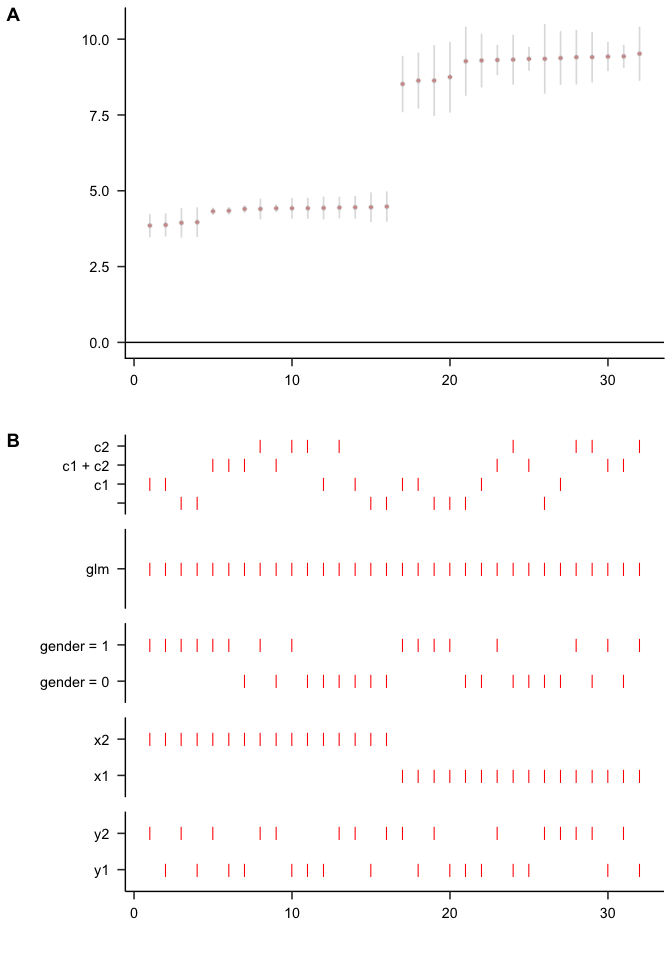
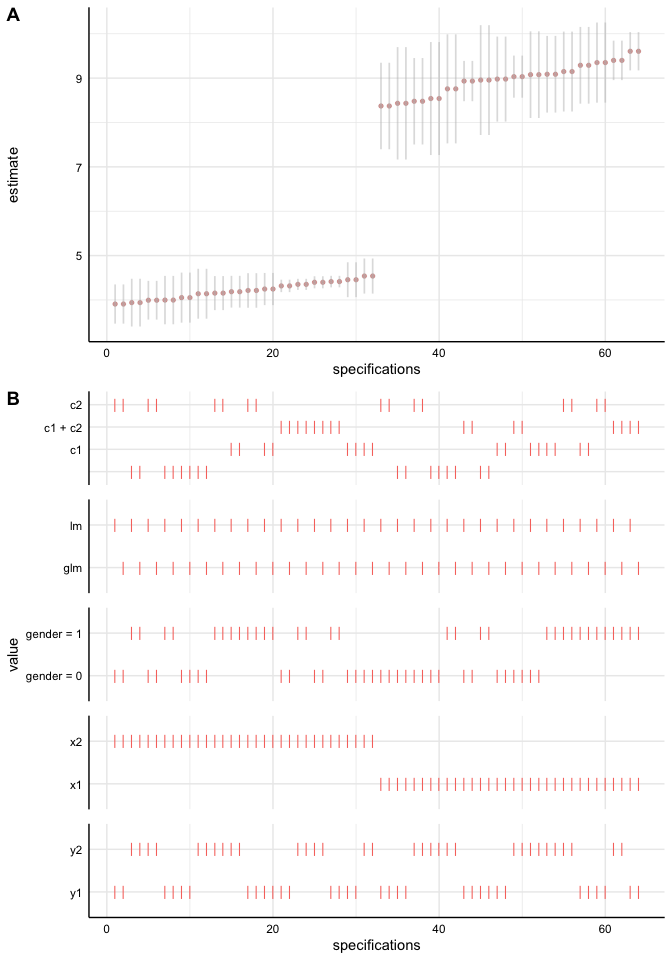
Updated example in README.md to use the simulated data within the package.

diff --git a/README.md b/README.md
@@ -28,32 +28,20 @@ devtools::install_github("masurp/specr")
 ## Example
 
 This is a basic example of how to use the major functions in this
-package. In a first step, we simulate some data that we can run a
-specification curve analysis with.
+package. In a first step, check the data (here a simulated data set).
 
 ``` r
 # Load library
 library(specr)
-
-# Simulating some data
-x1 <- rnorm(500, 2.5, 1)
-x2 <- 2*x1 + rnorm(500, 0, 1)
-c1 <- rnorm(500, 2.5, 2)
-c2 <- rnorm(500, 2.5, 2)
-gender <- rep(c(0,1), 250)
-y1 <- 2*x1 + 2.5*x2 + 2*c1 + 2*c2 + 0.5*(x1*c1) + 0.25*(x2*c2) + 2*gender + rnorm(500, 0, 1)
-y2 <- 2*x1 + 2.5*x2 + 2*c1 + 2*c2 + 0.5*(x1*c1) + 0.25*(x2*c2) + 2*gender + rnorm(500, 0, 1)
-d <- data.frame(x1, x2, c1, c2, gender, y1, y2)
-
-# Check data
+d <- example_data
 head(d)
-#>         x1       x2       c1         c2 gender       y1       y2
-#> 1 2.651347 5.551732 4.586782  0.8926008      0 37.49179 37.49800
-#> 2 3.682208 7.662658 1.658685 -1.9727400      1 27.29487 25.92298
-#> 3 3.321175 6.455129 2.664986 -1.7209318      0 26.25652 27.62138
-#> 4 4.891453 8.896054 1.475284 -0.5069221      1 37.18363 36.54832
-#> 5 3.144061 7.017656 3.734942  3.3965117      0 48.41670 49.17358
-#> 6 2.903576 4.735994 2.969299  4.9735140      1 43.02540 44.99472
+#>          x1        x2          c1       c2 gender       y1       y2
+#> 1 3.5835162 6.7585730 -0.08479593 1.046597      0 26.73193 28.45278
+#> 2 1.5918187 3.9296317  6.37908937 2.974318      1 41.77180 42.09489
+#> 3 0.4962778 0.5390142  3.03729593 3.941277      0 18.10251 18.67046
+#> 4 0.5755038 2.1816832  5.26185866 2.083192      1 25.81769 25.09875
+#> 5 1.7683538 3.1776625  1.62403890 1.054171      0 19.84352 18.74082
+#> 6 2.3275039 5.6656614  4.34043420 2.218534      1 42.13992 42.14452
 ```
 
 In a second step, we only need to use the function `run_specs()` and
@@ -63,22 +51,22 @@ includes relevant statistics of all models that were estimated.
 ``` r
 # Run specification curve analysis
 results <- run_specs(df = d, 
-                  y = c("y1", "y2"), 
-                  x = c("x1", "x2"), 
-                  model = "glm", 
-                  controls = c("c1", "c2"), 
-                  subset = list(gender = unique(d$gender)))
+                     y = c("y1", "y2"), 
+                     x = c("x1", "x2"), 
+                     model = c("lm", "glm"), 
+                     controls = c("c1", "c2"), 
+                     subset = list(gender = unique(d$gender)))
 # Check results
 head(results)
 #> # A tibble: 6 x 9
 #>   x     y     model controls estimate std.error statistic   p.value subset 
 #>   <chr> <chr> <chr> <chr>       <dbl>     <dbl>     <dbl>     <dbl> <chr>  
-#> 1 x1    y1    glm   c1 + c2      9.35    0.201       46.4 1.05e-123 gender…
-#> 2 x2    y1    glm   c1 + c2      4.40    0.0639      68.9 9.18e-163 gender…
-#> 3 x1    y2    glm   c1 + c2      9.43    0.195       48.3 1.61e-127 gender…
-#> 4 x2    y2    glm   c1 + c2      4.42    0.0642      68.9 8.38e-163 gender…
-#> 5 x1    y1    glm   c1           9.30    0.452       20.5 2.20e- 55 gender…
-#> 6 x2    y1    glm   c1           4.43    0.191       23.2 4.57e- 64 gender…
+#> 1 x1    y1    lm    c1 + c2      8.93    0.232       38.5 3.14e-106 gender…
+#> 2 x2    y1    lm    c1 + c2      4.32    0.0716      60.3 2.40e-149 gender…
+#> 3 x1    y2    lm    c1 + c2      9.03    0.242       37.3 2.67e-103 gender…
+#> 4 x2    y2    lm    c1 + c2      4.40    0.0694      63.3 2.67e-154 gender…
+#> 5 x1    y1    glm   c1 + c2      8.93    0.232       38.5 3.14e-106 gender…
+#> 6 x2    y1    glm   c1 + c2      4.32    0.0716      60.3 2.40e-149 gender…
 ```
 
 In a final step, we can use the function `plot_specs()` to produce a
@@ -86,7 +74,6 @@ typical visualization of the specification curve and how the analytical
 choices affected the obtained results.
 
 ``` r
-
 # Plot specification curve analysis
 plot_specs(results)
 ```
